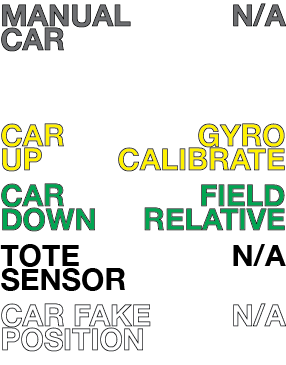
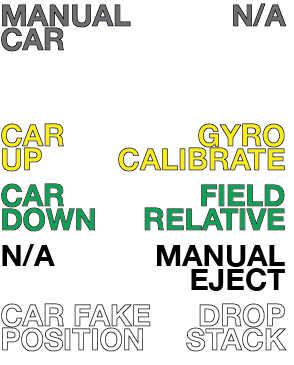
Changing some buttons. Adding drop stack. Fixing dash.

diff --git a/src/com/taurus/robotspecific2015/Application.java b/src/com/taurus/robotspecific2015/Application.java
@@ -48,11 +48,10 @@ public class Application extends com.taurus.Application {
         autoChooser.addObject("Container + 3 totes", Integer.valueOf(10));
 
         SmartDashboard.putData("Autonomous mode", autoChooser);
+        
         testChooser = new SendableChooser();
-        testChooser.addDefault("Pneumatics",
+        testChooser.addDefault("Pneumatics/Motors",
                 Integer.valueOf(Constants.TEST_MODE_PNEUMATIC));
-        testChooser.addObject("Motors",
-                Integer.valueOf(Constants.TEST_MODE_MOTORS));
         testChooser.addObject("Actuator",
                 Integer.valueOf(Constants.TEST_MODE_ACTUATOR));
         SmartDashboard.putData("Test", testChooser);
@@ -157,6 +156,10 @@ public class Application extends com.taurus.Application {
             {
                 CurrentLiftAction = STATE_LIFT_ACTION.EJECT_STACK;
             }
+            else if (controller.getDropStack())
+            {
+                CurrentLiftAction = STATE_LIFT_ACTION.DROP_STACK;
+            }
 
             switch (CurrentLiftAction)
             {
@@ -198,6 +201,13 @@ public class Application extends com.taurus.Application {
                     }
                     break;
 
+                case DROP_STACK:
+                    if (lift.DropStack())
+                    {
+                        CurrentLiftAction = STATE_LIFT_ACTION.NO_ACTION;
+                    }
+                    break;
+                    
                 case NO_ACTION:
                 default:
                     lift.GetCar().GetActuator().SetSpeedRaw(0);
@@ -236,12 +246,14 @@ public class Application extends com.taurus.Application {
 
     public void TestModePeriodicRobotSpecific()
     {
-        boolean button1 = controller.getRawButtion(1);
-        boolean button2 = controller.getRawButtion(2);
-        boolean button3 = controller.getRawButtion(3);
-        boolean button4 = controller.getRawButtion(4);
-        boolean button5 = controller.getRawButtion(5);
-        boolean button6 = controller.getRawButtion(6);
+        boolean button1 = controller.getRawButton(1);
+        boolean button2 = controller.getRawButton(2);
+        boolean button3 = controller.getRawButton(3);
+        boolean button4 = controller.getRawButton(4);
+        boolean button5 = controller.getRawButton(5);
+        boolean button6 = controller.getRawButton(6);
+        boolean button15 = controller.getRawButton(15);
+        boolean button16 = controller.getRawButton(16);
         lift.GetCar().ZeroIfNeeded();
 
         // test modes for cylinders and motors and features.
@@ -293,28 +305,13 @@ public class Application extends com.taurus.Application {
                         testCylinders.Extend();
                     }
                 }
-                break;
-            case Constants.TEST_MODE_MOTORS:
-                if (button1)
+                if (button15)
                 {
-                    lift.GetCar().GetActuator().SetSpeedRaw(1);
+                    lift.GetCar().GetActuator().SetSpeedRaw(.7);
                 }
-                else if (button2)
+                else if (button16)
                 {
-                    lift.GetCar().GetActuator().SetSpeedRaw(-1);
-                }
-                else if (button3)
-                {
-                    // lift.GetEjector().SetMotors(Constants.MOTOR_DIRECTION_FORWARD);
-                }
-                else if (button4)
-                {
-                    // lift.GetEjector().SetMotors(Constants.MOTOR_DIRECTION_BACKWARD);
-                }
-                else
-                {
-                    lift.GetCar().GetActuator().SetSpeedRaw(0);
-                    // lift.GetEjector().SetMotors(0);
+                    lift.GetCar().GetActuator().SetSpeedRaw(-.7);
                 }
                 break;
             case Constants.TEST_MODE_ACTUATOR:

diff --git a/src/com/taurus/robotspecific2015/Lift.java b/src/com/taurus/robotspecific2015/Lift.java
@@ -409,7 +409,7 @@ public class Lift extends Subsystem {
             // seperate method call
             // This allows robot to asynchronous drive and reset the Ejector
             default:
-                // TODO: Put error condition here
+             
                 break;
         }
         
@@ -425,20 +425,16 @@ public class Lift extends Subsystem {
     public boolean ResetEjectStack()
     {
         boolean finishedReset = false;
-
-        if (StateEjectStack == STATE_EJECT_STACK.RESET)
+        // IMPORTANT: Use single '&' to execute all cleanup routines
+        // asynchronously
+        if (StackEjector.ResetEjectStack()
+            & GetCylindersStackHolder().Contract())
         {
-            // IMPORTANT: Use single '&' to execute all cleanup routines
-            // asynchronously
-            if (StackEjector.ResetEjectStack()
-                & GetCylindersStackHolder().Contract())
-            {
-                finishedReset = true;
-                ContainerInStack = false;
-                TotesInStack = 0;
-                ToteOnRails = false;
-                StateEjectStack = STATE_EJECT_STACK.LIFT_CAR;
-            }
+            finishedReset = true;
+            ContainerInStack = false;
+            TotesInStack = 0;
+            ToteOnRails = false;
+            StateEjectStack = STATE_EJECT_STACK.LIFT_CAR;
         }
         return finishedReset;
     }
@@ -468,9 +464,7 @@ public class Lift extends Subsystem {
                 {
                     if (ToteOnRails)
                     {
-                        if (LiftCar.GoToDestack()) // TODO: Add new height for
-                                                   // adding
-                                                   // container to stack?
+                        if (LiftCar.GoToDestack())
                         {
                             StateEjectStack = STATE_EJECT_STACK.STACK_HOLDER_CONTRACT;
                         }
@@ -486,7 +480,7 @@ public class Lift extends Subsystem {
                 break;
             case STACK_HOLDER_CONTRACT:
                 LiftCar.UpdateLastPosition();
-                if (GetCylindersStackHolder().Contract())
+                if (GetCylindersStackHolder().Extend())
                 {
                     ToteOnRails = true;
                     StateEjectStack = STATE_EJECT_STACK.LOWER_CAR;
@@ -525,18 +519,16 @@ public class Lift extends Subsystem {
     {
         boolean finishedReset = false;
 
-        if (StateEjectStack == STATE_EJECT_STACK.RESET)
+        // IMPORTANT: Use single '&' to execute all cleanup routines
+        // asynchronously
+        if (GetCylindersRails().Extend()
+            & GetCylindersStackHolder().Contract())
         {
-            // IMPORTANT: Use single '&' to execute all cleanup routines
-            // asynchronously
-            if (GetCylindersRails().Extend()
-                & GetCylindersStackHolder().Extend())
-            {
-                finishedReset = true;
-                ContainerInStack = false;
-                TotesInStack = 0;
-                StateEjectStack = STATE_EJECT_STACK.LIFT_CAR;
-            }
+            finishedReset = true;
+            ContainerInStack = false;
+            TotesInStack = 0;
+            ToteOnRails = false;
+            StateEjectStack = STATE_EJECT_STACK.LIFT_CAR;
         }
         return finishedReset;
     }

diff --git a/src/com/taurus/controller/ControllerXboxPanel.java b/src/com/taurus/controller/ControllerXboxPanel.java
@@ -175,9 +175,16 @@ public class ControllerXboxPanel implements Controller {
         return value;
     }
 
-    public boolean getRawButtion(int button)
+    public boolean getRawButton(int button)
     {
-        return xbox.getRawButton(button);
+        if(button <= Xbox.ButtonType.kCount.value)
+        {
+            return xbox.getRawButton(button);
+        }
+        else
+        {
+            return panel.getRawButton(button - Xbox.ButtonType.kCount.value);
+        }
     }
 
     public double getDPad()
@@ -279,7 +286,7 @@ public class ControllerXboxPanel implements Controller {
     @Override
     public boolean getFakeToteAdd()
     {
-        return panel.getBlackLButton();
+        return xbox.getStart();
     }
 
     @Override
@@ -300,5 +307,11 @@ public class ControllerXboxPanel implements Controller {
     public boolean getEjector()
     {
         return panel.getBlackRButton();
+    }
+
+    @Override
+    public boolean getDropStack()
+    {
+        return panel.getWhiteRButton();
     }
 }

diff --git a/src/com/taurus/TestApplication.java b/src/com/taurus/TestApplication.java
@@ -37,12 +37,12 @@ public class TestApplication extends Application {
     public void TeleopPeriodicRobotSpecific()
     {
         
-        boolean button1 = controller.getRawButtion(1);
-        boolean button2 = controller.getRawButtion(2);
-        boolean button3 = controller.getRawButtion(3);
-        boolean button4 = controller.getRawButtion(4);
-        boolean button5 = controller.getRawButtion(5);
-        boolean button6 = controller.getRawButtion(6);
+        boolean button1 = controller.getRawButton(1);
+        boolean button2 = controller.getRawButton(2);
+        boolean button3 = controller.getRawButton(3);
+        boolean button4 = controller.getRawButton(4);
+        boolean button5 = controller.getRawButton(5);
+        boolean button6 = controller.getRawButton(6);
         if (button1)
         {
             Actuator.SetPosition(0);

diff --git a/src/com/taurus/controller/ControllerJoysticks.java b/src/com/taurus/controller/ControllerJoysticks.java
@@ -160,7 +160,7 @@ public class ControllerJoysticks implements Controller {
     /**
      * {@inheritDoc}
      */
-    public boolean getRawButtion(int button)
+    public boolean getRawButton(int button)
     {
         return left.getRawButton(button);
     }
@@ -304,6 +304,13 @@ public class ControllerJoysticks implements Controller {
 
     @Override
     public boolean getEjector()
+    {
+        // TODO Auto-generated method stub
+        return false;
+    }
+
+    @Override
+    public boolean getDropStack()
     {
         // TODO Auto-generated method stub
         return false;

diff --git a/src/com/taurus/controller/ControllerXbox.java b/src/com/taurus/controller/ControllerXbox.java
@@ -155,7 +155,7 @@ public class ControllerXbox implements Controller {
     /**
      * {@inheritDoc}
      */
-    public boolean getRawButtion(int button)
+    public boolean getRawButton(int button)
     {
         return xbox.getRawButton(button);
     }
@@ -298,6 +298,13 @@ public class ControllerXbox implements Controller {
 
     @Override
     public boolean getEjector()
+    {
+        // TODO Auto-generated method stub
+        return false;
+    }
+
+    @Override
+    public boolean getDropStack()
     {
         // TODO Auto-generated method stub
         return false;

diff --git a/src/com/taurus/controller/Xbox.java b/src/com/taurus/controller/Xbox.java
@@ -90,12 +90,16 @@ public class Xbox extends GenericHID {
         private static final int kStart_val = 8;
         private static final int kLeftStick_val = 9;
         private static final int kRightStick_val = 10;
+        private static final int kCount_val = 10;
 
         private ButtonType(int value)
         {
             this.value = value;
         }
 
+        public static final ButtonType kCount = new ButtonType(
+                kCount_val);
+        
         /**
          * Button: X-Joystick
          */

diff --git a/src/com/taurus/controller/ControllerChooser.java b/src/com/taurus/controller/ControllerChooser.java
@@ -15,9 +15,9 @@ public class ControllerChooser {
     {
 
         controllerChooser = new SendableChooser();
-        controllerChooser.addDefault("Xbox", XBOX);
+        controllerChooser.addDefault("Xbox & Panel", XBOXPANEL);
+        controllerChooser.addObject("Xbox", XBOX);
         controllerChooser.addObject("Joysticks", JOY);
-        controllerChooser.addObject("Xbox & Panel", XBOXPANEL);
         SmartDashboard.putData("Controller", controllerChooser);
     }
 

diff --git a/src/com/taurus/controller/Controller.java b/src/com/taurus/controller/Controller.java
@@ -125,7 +125,7 @@ public interface Controller {
      * @param button
      * @return
      */
-    public boolean getRawButtion(int button);
+    public boolean getRawButton(int button);
     
     /**
      * Get whether the high gear should be enabled
@@ -193,4 +193,6 @@ public interface Controller {
      * @return
      */
     public boolean getStopAction();
+
+    public boolean getDropStack();
 }

diff --git a/src/com/taurus/robotspecific2015/Constants.java b/src/com/taurus/robotspecific2015/Constants.java
@@ -88,7 +88,7 @@ public abstract class Constants {
     }
     
     public static enum STATE_LIFT_ACTION {
-        NO_ACTION, ADD_CHUTE_TOTE, ADD_FLOOR_TOTE, ADD_CONTAINER, EJECT_STACK
+        NO_ACTION, ADD_CHUTE_TOTE, ADD_FLOOR_TOTE, ADD_CONTAINER, EJECT_STACK, DROP_STACK
     }
     
     // Lift
